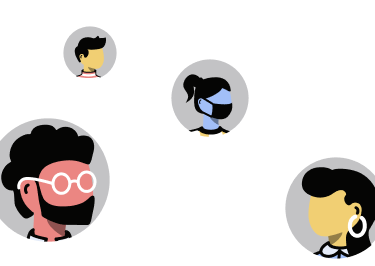
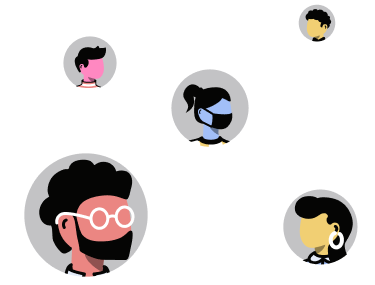
fix image width issue at some screen.

diff --git a/src/screens/GetStarted.js b/src/screens/GetStarted.js
@@ -15,16 +15,14 @@ const GetStarted = ({navigation}) => {
       <Image
         source={GetStartedImage}
         style={{
-          resizeMode: 'contain',
           width: '100%',
-          position: 'absolute',
-          top: '10%',
+          height: '42%',
         }}
       />
       <Text style={styles.text}>
         Safe{' '}
         <Text style={[styles.text, {color: 'white'}]}>
-          way to transfer money
+          {`way\n to transfer\n money`}
         </Text>
       </Text>
       <View style={styles.wrap_btn}>
@@ -62,18 +60,20 @@ const styles = StyleSheet.create({
     position: 'absolute',
     bottom: 0,
     zIndex: -1,
+    left: 0,
+    right: 0,
+    width: '100%',
   },
   logo: {
     padding: dimens.default_16,
   },
   text: {
     fontFamily: fonts.sofia_regular,
-    fontSize: dimens.large_40,
+    fontSize: 56,
     fontWeight: 'bold',
-    width: '65%',
     color: color.btn_black,
     padding: dimens.default_16,
     position: 'absolute',
-    bottom: '20%',
+    bottom: '15%',
   },
 });

diff --git a/src/components/atoms/PageTitle.js b/src/components/atoms/PageTitle.js
@@ -1,17 +1,21 @@
 import React from 'react';
 import {StyleSheet, Text, View, TouchableOpacity, Image} from 'react-native';
-import {LeftArrow} from '../../assets';
+import {LeftArrow, BlackLeftArrow} from '../../assets';
 import {dimens, fonts} from '../../utils';
 
-const PageTitle = ({title, navigation}) => {
+const PageTitle = ({title, navigation, isBlackArrow, titleStyle}) => {
   return (
     <View style={styles.container}>
       <TouchableOpacity
         onPress={() => navigation.goBack()}
         style={styles.left_arrow}>
-        <Image source={LeftArrow} />
+        {isBlackArrow ? (
+          <Image source={BlackLeftArrow} />
+        ) : (
+          <Image source={LeftArrow} />
+        )}
       </TouchableOpacity>
-      <Text style={styles.title}>{title}</Text>
+      <Text style={[styles.title, titleStyle]}>{title}</Text>
     </View>
   );
 };

diff --git a/src/screens/Register.js b/src/screens/Register.js
@@ -1,14 +1,28 @@
 import React from 'react';
-import {StyleSheet, Text, View} from 'react-native';
+import {StyleSheet, Text, View, SafeAreaView} from 'react-native';
 
-const Register = () => {
+//where local files imported
+import {color, dimens, fonts} from '../utils';
+import {PageTitle} from '../components';
+
+const Register = ({navigation}) => {
   return (
-    <View>
-      <Text>Register</Text>
-    </View>
+    <SafeAreaView style={styles.container}>
+      <PageTitle
+        titleStyle={{color: color.btn_black, fontSize: dimens.default_22}}
+        isBlackArrow
+        title="Create Account"
+        navigation={navigation}
+      />
+    </SafeAreaView>
   );
 };
 
 export default Register;
 
-const styles = StyleSheet.create({});
+const styles = StyleSheet.create({
+  container: {
+    flex: 1,
+    backgroundColor: color.bg_grey,
+  },
+});

diff --git a/src/components/atoms/Button.js b/src/components/atoms/Button.js
@@ -1,14 +1,22 @@
 import React from 'react';
-import {StyleSheet, Text, View, TouchableOpacity} from 'react-native';
+import {StyleSheet, Text, Image, View, TouchableOpacity} from 'react-native';
 import {color, dimens, fonts} from '../../utils';
 
-const Button = ({onPress, btnStyle, titleStyle, title}) => {
+const Button = ({
+  onPress,
+  btnStyle,
+  titleStyle,
+  title,
+  isLeftIcon,
+  leftIcon,
+}) => {
   return (
     <TouchableOpacity
       activeOpacity={0.8}
       onPress={onPress}
       style={[styles.btn, btnStyle]}>
       <Text style={[styles.btn_title, titleStyle]}>{title}</Text>
+      {isLeftIcon ?? <Image source={leftIcon} />}
     </TouchableOpacity>
   );
 };

diff --git a/src/screens/Splash.js b/src/screens/Splash.js
@@ -11,7 +11,7 @@ const Splash = ({navigation}) => {
     // go to onboarding screen initially
     // check at local storage
     // if user already login, then go to home page,
-    // if no user logged out, then go to login screen.
+    // if no user logged in, then go to login screen / get started screen.
 
     wait(1000).then(() => {
       navigation.replace('Loader');
@@ -40,5 +40,6 @@ const styles = StyleSheet.create({
     bottom: 0,
     left: 0,
     right: 0,
+    width: '100%',
   },
 });

diff --git a/src/screens/Loader.js b/src/screens/Loader.js
@@ -7,7 +7,7 @@ import {color, wait} from '../utils';
 
 const Loader = ({navigation}) => {
   useEffect(() => {
-    wait(500).then(() => navigation.replace('GetStarted'));
+    wait(500).then(() => navigation.replace('OnBoarding'));
   }, []);
   return (
     <SafeAreaView style={styles.container}>

diff --git a/src/screens/OnBoarding.js b/src/screens/OnBoarding.js
@@ -127,6 +127,7 @@ const styles = StyleSheet.create({
     left: 0,
     right: 0,
     zIndex: -1,
+    width: '100%',
   },
   renderItem: {
     justifyContent: 'center',

diff --git a/src/assets/icons/index.js b/src/assets/icons/index.js
@@ -1,3 +1,4 @@
 import LeftArrow from './left-arrow.png';
+import BlackLeftArrow from './black-left-arrow.png';
 
-export {LeftArrow};
+export {LeftArrow, BlackLeftArrow};

diff --git a/src/utils/color.js b/src/utils/color.js
@@ -4,4 +4,5 @@ export const color = {
   btn_title_white: '#686A6D',
   btn_black: '#03060C',
   loading: '#6467E5',
+  bg_grey: '#F0F0F1',
 };
